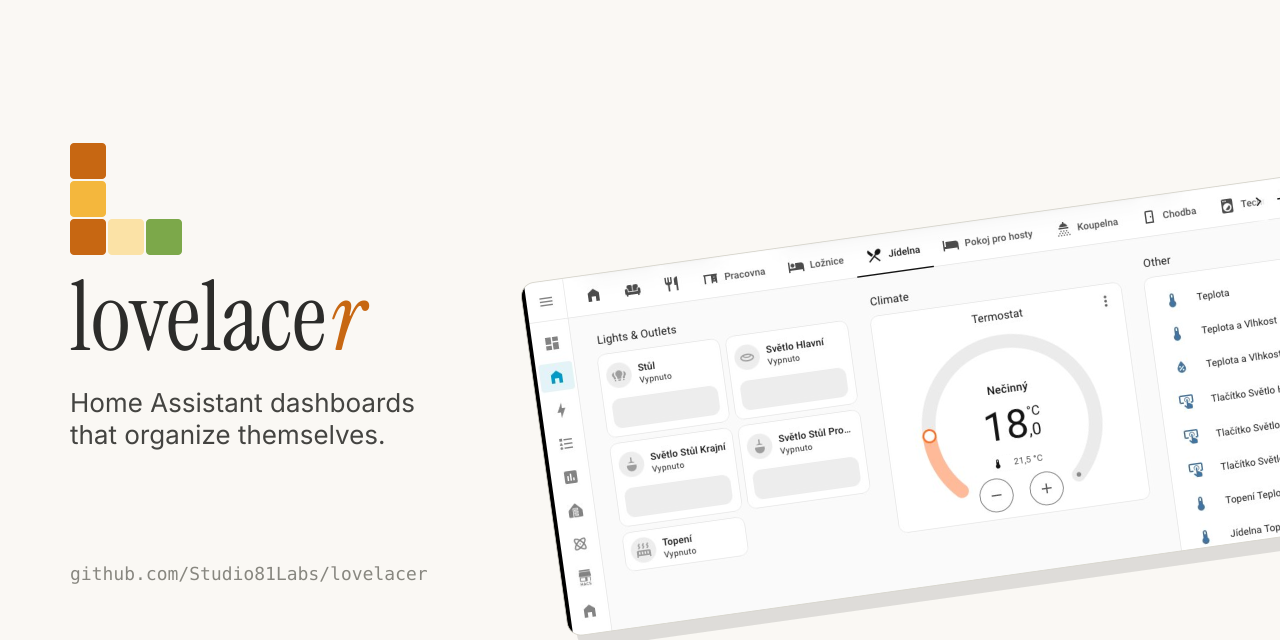
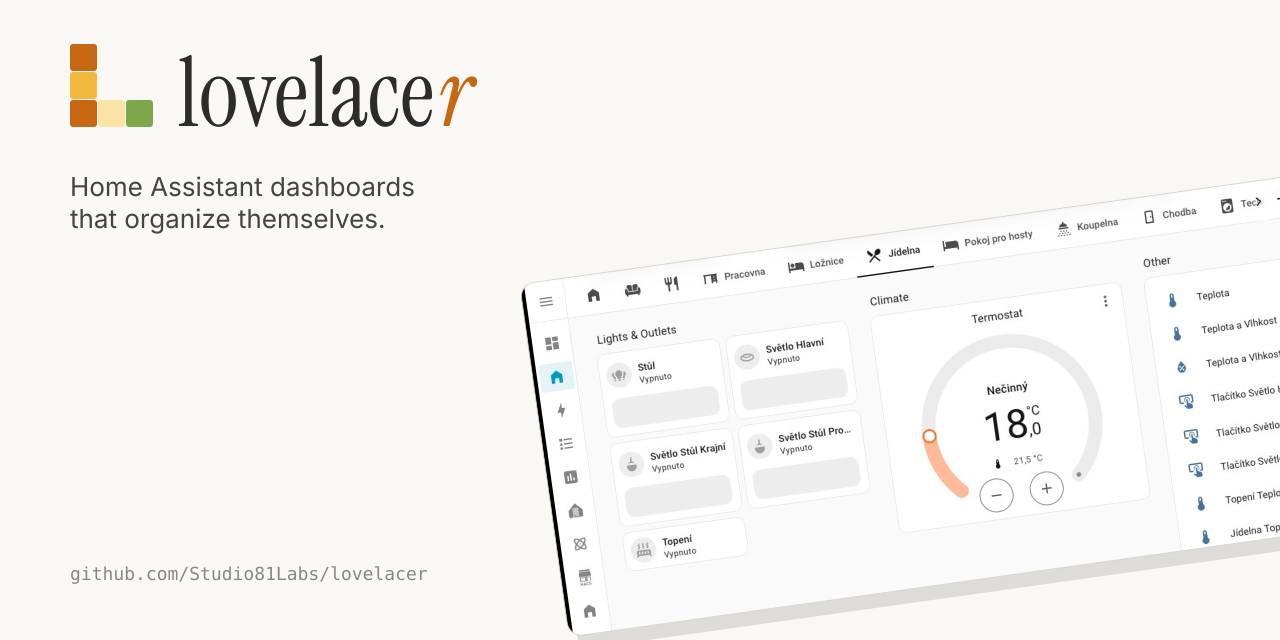
docs(docs): add social imagery (#93)

diff --git a/apps/docs/src/.vitepress/config.ts b/apps/docs/src/.vitepress/config.ts
@@ -1,9 +1,17 @@
 import { defineConfig } from 'vitepress'
 
+const siteDescription = 'Home Assistant dashboards that organize themselves.'
+const socialTitle = 'Lovelacer — Home Assistant dashboards that organize themselves'
+const socialDescription =
+  'Analyzes your HA registry, groups entities by room, and generates a clean Lovelace dashboard you can preview before applying.'
+const socialImage = '/social/og-1200x630.png'
+const socialImageAlt =
+  'Lovelacer wordmark beside a tilted screenshot of a generated Home Assistant dashboard'
+
 // https://vitepress.dev/reference/site-config
 export default defineConfig({
   title: 'Lovelacer',
-  description: 'Home Assistant dashboards that organize themselves.',
+  description: siteDescription,
   cleanUrls: true,
 
   head: [
@@ -26,17 +34,25 @@ export default defineConfig({
         href: '/brand/lovelacer-favicon-16.png',
       },
     ],
-    ['meta', { property: 'og:title', content: 'Lovelacer' }],
+    ['meta', { property: 'og:title', content: socialTitle }],
     [
       'meta',
       {
         property: 'og:description',
-        content: 'Home Assistant dashboards that organize themselves.',
+        content: socialDescription,
       },
     ],
-    ['meta', { property: 'og:image', content: '/brand/lovelacer-logo-1024.png' }],
+    ['meta', { property: 'og:image', content: socialImage }],
+    ['meta', { property: 'og:image:width', content: '1200' }],
+    ['meta', { property: 'og:image:height', content: '630' }],
+    ['meta', { property: 'og:image:alt', content: socialImageAlt }],
+    ['meta', { property: 'og:site_name', content: 'Lovelacer' }],
     ['meta', { property: 'og:type', content: 'website' }],
     ['meta', { name: 'twitter:card', content: 'summary_large_image' }],
+    ['meta', { name: 'twitter:title', content: socialTitle }],
+    ['meta', { name: 'twitter:description', content: socialDescription }],
+    ['meta', { name: 'twitter:image', content: socialImage }],
+    ['meta', { name: 'twitter:image:alt', content: socialImageAlt }],
     ['link', { rel: 'preconnect', href: 'https://fonts.googleapis.com' }],
     ['link', { rel: 'preconnect', href: 'https://fonts.gstatic.com', crossorigin: '' }],
     [
